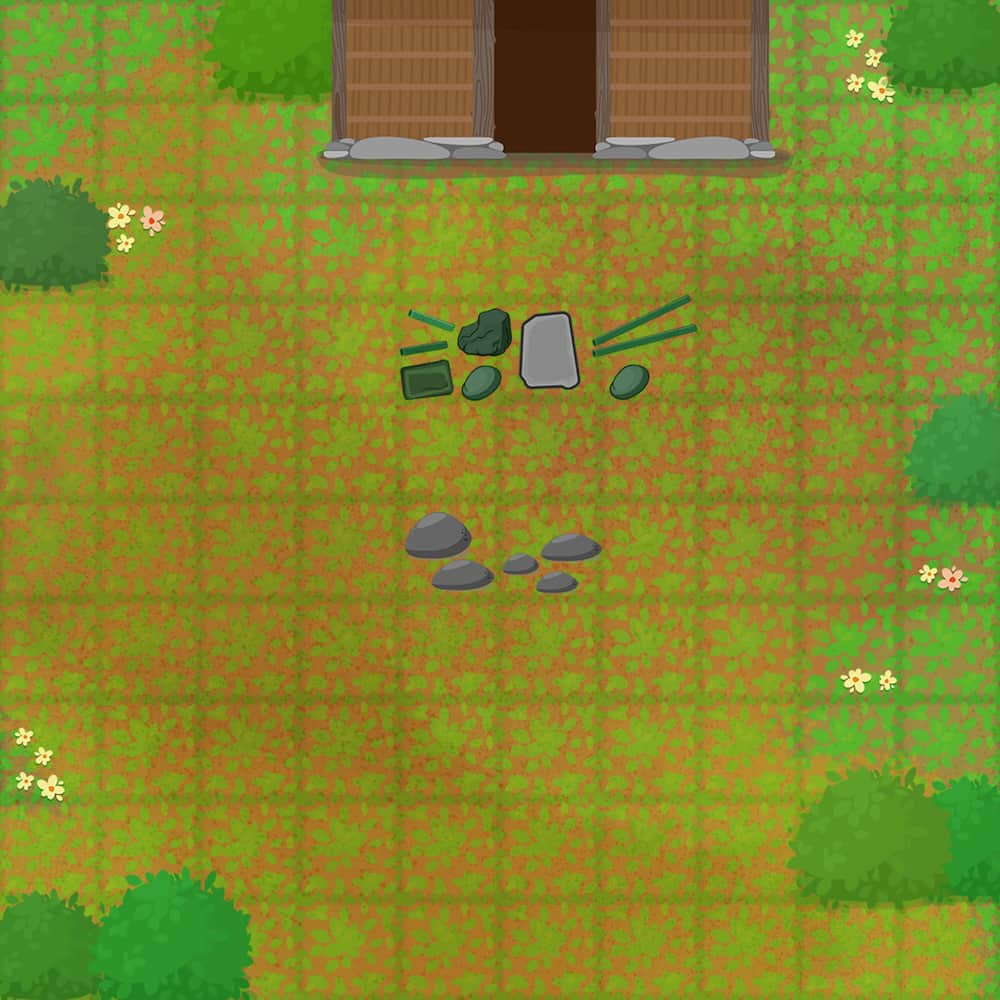
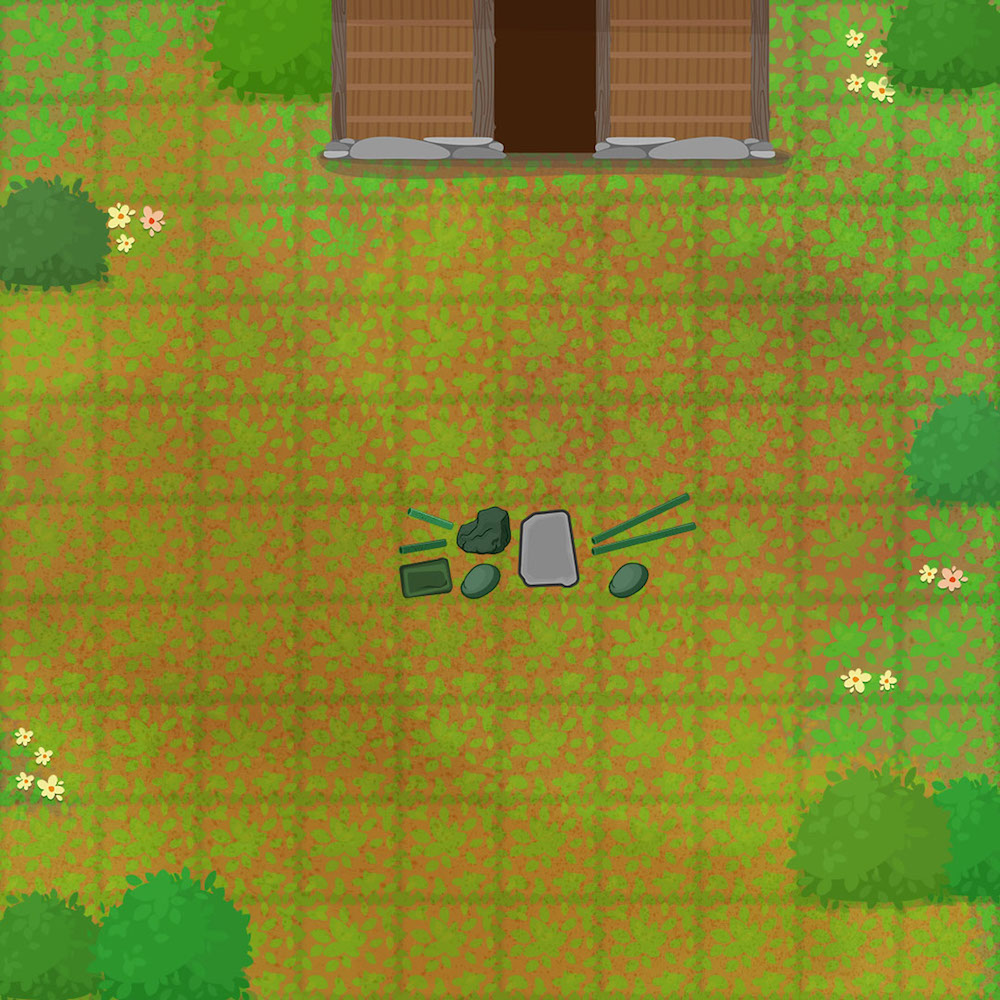
更新第八關路線和highlight

diff --git a/stages/08/index.js b/stages/08/index.js
@@ -8,7 +8,7 @@ window.GAME.initialize = function () {
     var TILT_SIZE = 100; // 每個 TILE (正方形)的大小
 
     // 預設玩家位置
-    var DEFAULT_PLAYER = { x: 1.5 * TILT_SIZE, y: 3.5 * TILT_SIZE, facing: 'right' };
+    var DEFAULT_PLAYER = { x: 3.5 * TILT_SIZE, y: 3.5 * TILT_SIZE, facing: 'down' };
 
     // 選擇的角色
     var SELECTED_CHARACTER = localStorage.getItem('selectedCharacter') || 'child-a';
@@ -45,12 +45,6 @@ window.GAME.initialize = function () {
     var schist; // 片岩
     var drill; //鑽孔器
     var bounds = []; // 邊界
-    var workspaces = [
-        { x: 4.5*TILT_SIZE, y: 3.5*TILT_SIZE },
-        { x: 5.5*TILT_SIZE, y: 3.5*TILT_SIZE },
-        { x: 6.5*TILT_SIZE, y: 3.5*TILT_SIZE }
-    ]; // 工作區
-
     var resetSignal = new Phaser.Signal(); // 重設遊戲 event
 
     // 是否執行磨製成功
@@ -58,15 +52,6 @@ window.GAME.initialize = function () {
     var isMilled = false;
     var isDrilled = false;
     var isPolished = false;
-
-    function isReachWorkspace() {
-        for(var i = 0; i < workspaces.length; i++) {
-            var workspace = workspaces[i];
-            if (calcDistance(player, workspace) === 100.0) return true;
-        }
-
-        return false;
-    }
 
     // 計算兩個 sprite 間距離（單位 px)
     function calcDistance(sprite1, spirte2) {
@@ -89,11 +74,34 @@ window.GAME.initialize = function () {
 
     // Add tile highlight
     // 標示出目標區塊
-    function addTileHighlight(row, column) {
-        var tileHighlight = backgroundLayer.create((column+0.5)*TILT_SIZE, (row+0.5)*TILT_SIZE, 'tile-highlight');
-        tileHighlight.scale.setTo(TILT_SIZE / tileHighlight.width);
-        tileHighlight.anchor.x = 0.5;
-        tileHighlight.anchor.y = 0.5;
+    function addTileHighlight(startRow, startColumn, rowSpan, columnSpan) {
+        for(var rowOffset = 0; rowOffset < rowSpan; rowOffset++) {
+            for(var columnOffset = 0; columnOffset < columnSpan; columnOffset++) {
+                var y = (startRow + rowOffset + 0.5) * TILT_SIZE;
+                var x = (startColumn + columnOffset + 0.5) * TILT_SIZE;
+
+                var tileHighlight = backgroundLayer.create(x, y, 'tile-highlight');
+                tileHighlight.scale.setTo(TILT_SIZE / tileHighlight.width);
+                tileHighlight.anchor.x = 0.5;
+                tileHighlight.anchor.y = 0.5;
+            }
+        }
+    }
+    
+    // Add tile highlight
+    // 標示出目標區塊
+    function addTileHighlightYellow(startRow, startColumn, rowSpan, columnSpan) {
+        for(var rowOffset = 0; rowOffset < rowSpan; rowOffset++) {
+            for(var columnOffset = 0; columnOffset < columnSpan; columnOffset++) {
+                var y = (startRow + rowOffset + 0.5) * TILT_SIZE;
+                var x = (startColumn + columnOffset + 0.5) * TILT_SIZE;
+
+                var tileHighlight = backgroundLayer.create(x, y, 'tile-highlight-yellow');
+                tileHighlight.scale.setTo(TILT_SIZE / tileHighlight.width);
+                tileHighlight.anchor.x = 0.5;
+                tileHighlight.anchor.y = 0.5;
+            }
+        }
     }
 
     // 建立玩家角色
@@ -155,19 +163,19 @@ window.GAME.initialize = function () {
 
     function createTools() {
         // 石鎚
-        hammer = middleLayer.create(1.5*TILT_SIZE, 4.5*TILT_SIZE, 'hammer')
+        hammer = middleLayer.create(2.5*TILT_SIZE, 4.5*TILT_SIZE, 'hammer')
         hammer.anchor.x = 0.5;
         hammer.anchor.y = 0.5;
         hammer.scale.setTo(TILT_SIZE / hammer.width);
         
         // 片岩
-        schist = middleLayer.create(2.5*TILT_SIZE, 4.5*TILT_SIZE, 'schist')
+        schist = middleLayer.create(3.5*TILT_SIZE, 7.5*TILT_SIZE, 'schist')
         schist.anchor.x = 0.5;
         schist.anchor.y = 0.5;
         schist.scale.setTo(TILT_SIZE / schist.width);
 
         // 鑽孔器
-        drill = middleLayer.create(3.5*TILT_SIZE, 4.5*TILT_SIZE, 'drill')
+        drill = middleLayer.create(6.5*TILT_SIZE, 7.5*TILT_SIZE, 'drill')
         drill.anchor.x = 0.5;
         drill.anchor.y = 0.25;
         drill.scale.setTo(TILT_SIZE / drill.width);
@@ -182,6 +190,7 @@ window.GAME.initialize = function () {
         game.load.image('schist', '../../images/tools/schist.png');
         game.load.image('drill', '../../images/tools/drill.png');
         game.load.image('tile-highlight', '../../images/tile-highlight.png');
+        game.load.image('tile-highlight-yellow', '../../images/tile-highlight-yellow.png');
 
         // 0, 3, 6, 9, 12, 13, 14, 15
         // 下, 左, 上, 右, 蹲下(下), 蹲下(左), 蹲下(上), 蹲下(右)
@@ -215,12 +224,19 @@ window.GAME.initialize = function () {
         addBound(0, 5, 1, 1);
         addBound(0, 6, 2, 2);
         addBound(0, 9, 1, 1);
-        addBound(5, 4, 1, 2);
-        addBound(3, 4, 1, 3);
-        addBound(4, 9, 1, 1);
-        addBound(8, 8, 1, 2);
-        addBound(4, 1, 1, 3);
-        addBound(5, 3, 1, 1);
+        addBound(5, 4, 1, 3);
+        addBound(4, 2, 1, 1);
+        addBound(7, 3, 1, 1);
+        addBound(7, 6, 2, 1);
+
+        addTileHighlight(4,3,1,1);
+        addTileHighlightYellow(5,3,1,1);
+        addTileHighlight(6,3,1,1);
+        addTileHighlightYellow(6,4,1,1);
+        addTileHighlight(6,5,1,3);
+        addTileHighlightYellow(5,7,1,1);
+        addTileHighlight(4,6,1,2);
+        addTileHighlightYellow(4,5,1,1);
     }
 
     // 當畫面更新時
@@ -349,7 +365,7 @@ window.GAME.initialize = function () {
         if (hammer.visible) {
             $('.hint-content p').text('要先拿到石鎚後，才能進行打剝哦！');
         } else {
-            if (isReachWorkspace()) {
+            if (calcDistance(player, { x: 4.5*TILT_SIZE, y: 5.5*TILT_SIZE }) == 100.0) {
                 player.squat();
                 isHitBreak = true;
             } else {
@@ -372,7 +388,7 @@ window.GAME.initialize = function () {
         if (schist.visible) {
             $('.hint-content p').text('要先拿到片岩後，才能進行磨鋸哦！');
         } else {
-            if (isReachWorkspace()) {
+            if (calcDistance(player, { x: 4.5*TILT_SIZE, y: 5.5*TILT_SIZE }) == 100.0) {
                 isMilled = true;
             } else {
                 $('.hint-content p').text('要先走到玉石所在的位置，才能進行磨鋸哦！');
@@ -394,7 +410,7 @@ window.GAME.initialize = function () {
         if (drill.visible) {
             $('.hint-content p').text('要先拿到鑽孔器後，才能進行鑽孔哦！');
         } else {
-            if (isReachWorkspace()) {
+            if (calcDistance(player, { x: 6.5*TILT_SIZE, y: 5.5*TILT_SIZE }) == 100.0) {
                 player.squat();
                 isDrilled = true;
             } else {
@@ -414,7 +430,7 @@ window.GAME.initialize = function () {
             return done();
         }
 
-        if (isReachWorkspace()) {
+        if (calcDistance(player, { x: 5.5*TILT_SIZE, y: 5.5*TILT_SIZE }) == 100.0) {
             player.squat();
             isPolished = true;
         } else {

diff --git a/stages/07/index.js b/stages/07/index.js
@@ -207,7 +207,7 @@ window.GAME.initialize = function () {
         addBound(0, 6, 2, 2);
         addBound(0, 9, 1, 1);
         addBound(5, 4, 1, 2);
-        addBound(3, 4, 1, 3);
+        addBound(3, 3, 1, 3);
         addBound(4, 9, 1, 1);
         addBound(8, 8, 1, 2);
         addBound(8, 5, 1, 1);
@@ -325,9 +325,9 @@ window.GAME.initialize = function () {
     window.GAME.player.polish = function (done) {
         // 判斷是否到達玉石/砥石的位置
         var workspaces = [
+            { x: 3.5*TILT_SIZE, y: 3.5*TILT_SIZE },
             { x: 4.5*TILT_SIZE, y: 3.5*TILT_SIZE },
-            { x: 5.5*TILT_SIZE, y: 3.5*TILT_SIZE },
-            { x: 6.5*TILT_SIZE, y: 3.5*TILT_SIZE }
+            { x: 5.5*TILT_SIZE, y: 3.5*TILT_SIZE }
         ];
         var isReachWorkspace = false; 
         for(var i = 0; i < workspaces.length; i++) {
